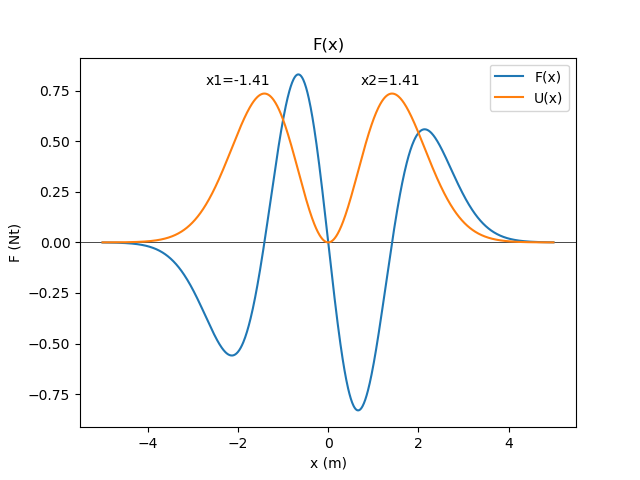
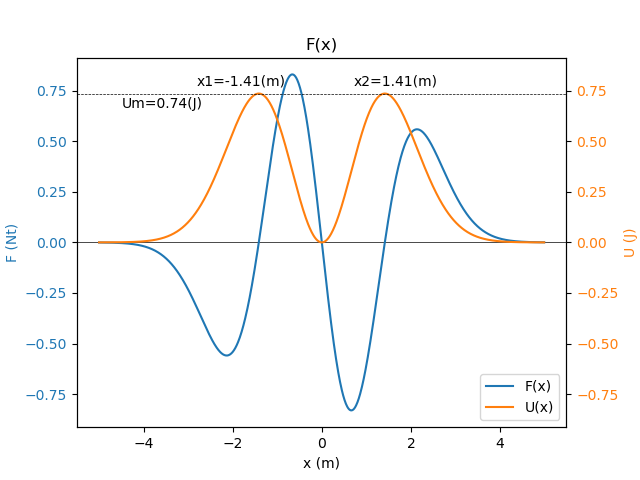
configure subplots

diff --git a/HW2/functions.py b/HW2/functions.py
@@ -38,23 +38,32 @@ Below are the functions of the subtasks of this homework.
 def plot_F():
     global x_left_bound, x_right_bound, dx
 
-    fig, ax = plt.subplots()
-    ax.set_title("F(x)")
-    ax.set_xlabel("x (m)")
-    ax.set_ylabel("F (Nt)")
-    ax.axhline(y=0, color='k', linewidth=0.5)
+    fig, axF = plt.subplots()
+    axU = axF.twinx()
+    axF.get_shared_y_axes().join(axF, axU)
+    axF.set_title("F(x)")
+    axF.set_xlabel("x (m)")
+    axF.set_ylabel("F (Nt)", color='tab:blue')
+    axF.tick_params(axis='y', labelcolor='tab:blue')
+    axU.set_ylabel("U (J)", color='tab:orange')
+    axU.tick_params(axis='y', labelcolor='tab:orange')
+    axF.axhline(y=0, color='k', linewidth=0.5)
 
     list_x = [x for x in np.arange(x_left_bound, x_right_bound, dx)]
     list_F = [F(x) for x in list_x]
     list_U = [U(x) for x in list_x]
 
-    ax.plot(list_x, list_F, label='F(x)')
-    ax.plot(list_x, list_U, label='U(x)')
-    ax.text(x1-1.3, Um+0.04, 'x1=%.2f'%(x1))
-    #ax.plot(x1, Um, color='k')
-    ax.text(x2-0.7, Um+0.04, 'x2=%.2f'%(x2))
-    #ax.plot(x2, Um, color='k')
-    ax.legend(loc='best')
+    axF.plot(list_x, list_F, label='F(x)', color='tab:blue')
+    axF.plot(list_x, list_U, label='U(x)', color='tab:orange')
+    axF.text(x1-1.4, Um+0.04, 'x1=%.2f(m)'%(x1))
+    axF.text(x2-0.7, Um+0.04, 'x2=%.2f(m)'%(x2))
+    axU.axhline(y=Um, color='k', linewidth=0.5, linestyle='--')
+    axU.text(-4.5, Um-0.07, 'Um=%.2f(J)'%(Um))
+
+    axF.legend(loc='lower right')
+    plt.subplots_adjust(top=0.88, bottom=0.11, left=0.12, right=0.885, hspace=0.2, wspace=0.2)
+
+
 
 # phase-space trajectory
 def plot_pst(x0, direction):
@@ -63,7 +72,7 @@ def plot_pst(x0, direction):
     list_v = []
 
     fig, ax = plt.subplots()
-    ax.set_title("Phase-space Trajectory (x0=%.2f , v0=%.2f)"%(x0, V(x0, Um)*direction))
+    ax.set_title("Phase-space Trajectory (x0=%.2fm)"%(x0))
     ax.set_xlabel("x (m)")
     ax.set_ylabel("v (m/s)")
 
